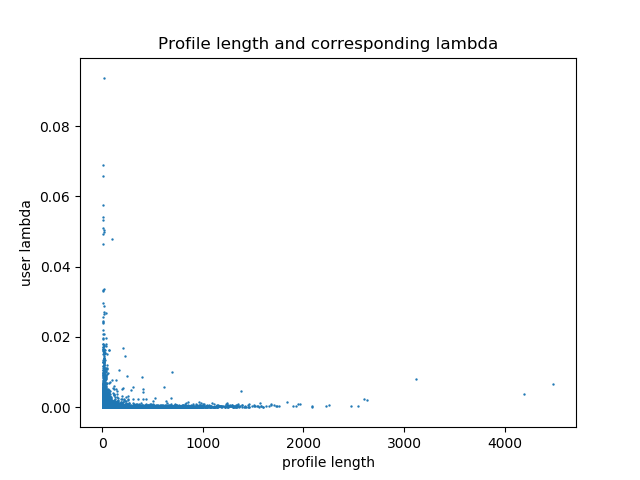
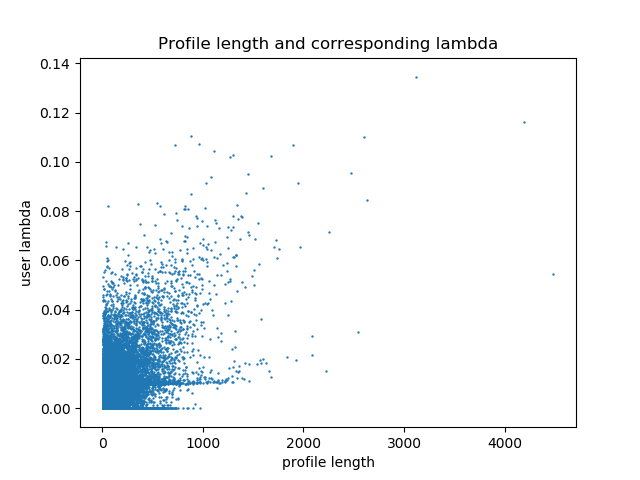
.

diff --git a/run_plot_lambda_threshold.py b/run_plot_lambda_threshold.py
@@ -14,7 +14,8 @@ from Base.non_personalized import TopPop, Random
 from KNN.item_knn_CF import ItemKNNCFRecommender
 from GraphBased.P3alpha import P3alphaRecommender
 from GraphBased.RP3beta import RP3betaRecommender
-
+from KNN.item_knn_custom_Similarity import ItemKNNCustomSimilarityRecommender
+from SLIM_BPR.Cython.SLIM_BPR_Cython import SLIM_BPR_Cython
 
 from data.NetflixEnhanced.NetflixEnhancedReader import NetflixEnhancedReader
 from data.Movielens_1m.Movielens1MReader import Movielens1MReader
@@ -237,7 +238,7 @@ def plot_hybrid_performance(dataReader_class):
 
     for mode in ["pinv", "transpose"]:
 
-        for train_on in ["subset", "all"]:
+        for train_on in ["all"]:#["subset", "all"]:
 
             for negative in [False]:#, True]:
 
@@ -342,15 +343,27 @@ def plot_CF_performance_on_lambda_threshold(dataReader_class, mode = "pinv", neg
     # print("Personalized result: {}".format(results_run_pers))
     # print("Non personalized result: {}".format(results_run_non_pers))
 
+
+    pers_collaborative_class = SLIM_BPR_Cython
+
+
+    optimal_params_pers = pickle.load(open("results/baselines/" + pers_collaborative_class.RECOMMENDER_NAME +
+                                      "_{}_best_parameters".format(dataset_name), "rb"))
+
+
+    W_sparse = sps.load_npz("results/baselines/" + pers_collaborative_class.RECOMMENDER_NAME +
+                                      "_{}_best_model_W_sparse.npz".format(dataset_name))
+
+
     if train_on is "all":
 
         non_personalized_recommender = TopPop(URM_train)
-        personalized_recommender = ItemKNNCFRecommender(URM_train)
+        #personalized_recommender = ItemKNNCFRecommender(URM_train)
 
-
+        personalized_recommender = ItemKNNCustomSimilarityRecommender(topK = optimal_params_pers["topK"])
 
         non_personalized_recommender.fit()
-        personalized_recommender.fit()
+        personalized_recommender.fit(W_sparse, URM_train)
 
 
 
@@ -387,7 +400,7 @@ def plot_CF_performance_on_lambda_threshold(dataReader_class, mode = "pinv", neg
 
 
             non_personalized_recommender.fit()
-            personalized_recommender.fit()
+            personalized_recommender.fit(**optimal_params_pers)
 
         else:
 
@@ -455,7 +468,7 @@ def plot_CF_performance_on_lambda_threshold(dataReader_class, mode = "pinv", neg
         plt.plot(x_tick, map_performance_TopPop, linewidth=3, label="TopPop",
                  linestyle = "-", marker = marker_iterator_local.__next__())
 
-        plt.plot(x_tick, map_performance_CF, linewidth=3, label="Item KNN CF",
+        plt.plot(x_tick, map_performance_CF, linewidth=3, label="SLIM BPR",
                  linestyle = "-", marker = marker_iterator_local.__next__())
 
         if train_on is "all":
@@ -468,7 +481,8 @@ def plot_CF_performance_on_lambda_threshold(dataReader_class, mode = "pinv", neg
         legend = plt.legend(loc=9, bbox_to_anchor=(0.5, -0.1), ncol=1)
         legend = [legend]
 
-        plt.savefig("results/plot/MAP_over_lambda_{}_mode_{}_range_{}_train_on_{}".format(dataset_name, mode, lambda_range, train_on
+        plt.savefig("results/plot/MAP_over_lambda_{}_mode_{}_range_{}_train_on_{}_{}".format(dataset_name, mode, lambda_range, train_on,
+            pers_collaborative_class.RECOMMENDER_NAME
             #personalized_recommender.RECOMMENDER_NAME, non_personalized_recommender.RECOMMENDER_NAME
                                                                                           ),
             additional_artists=legend, bbox_inches="tight")
